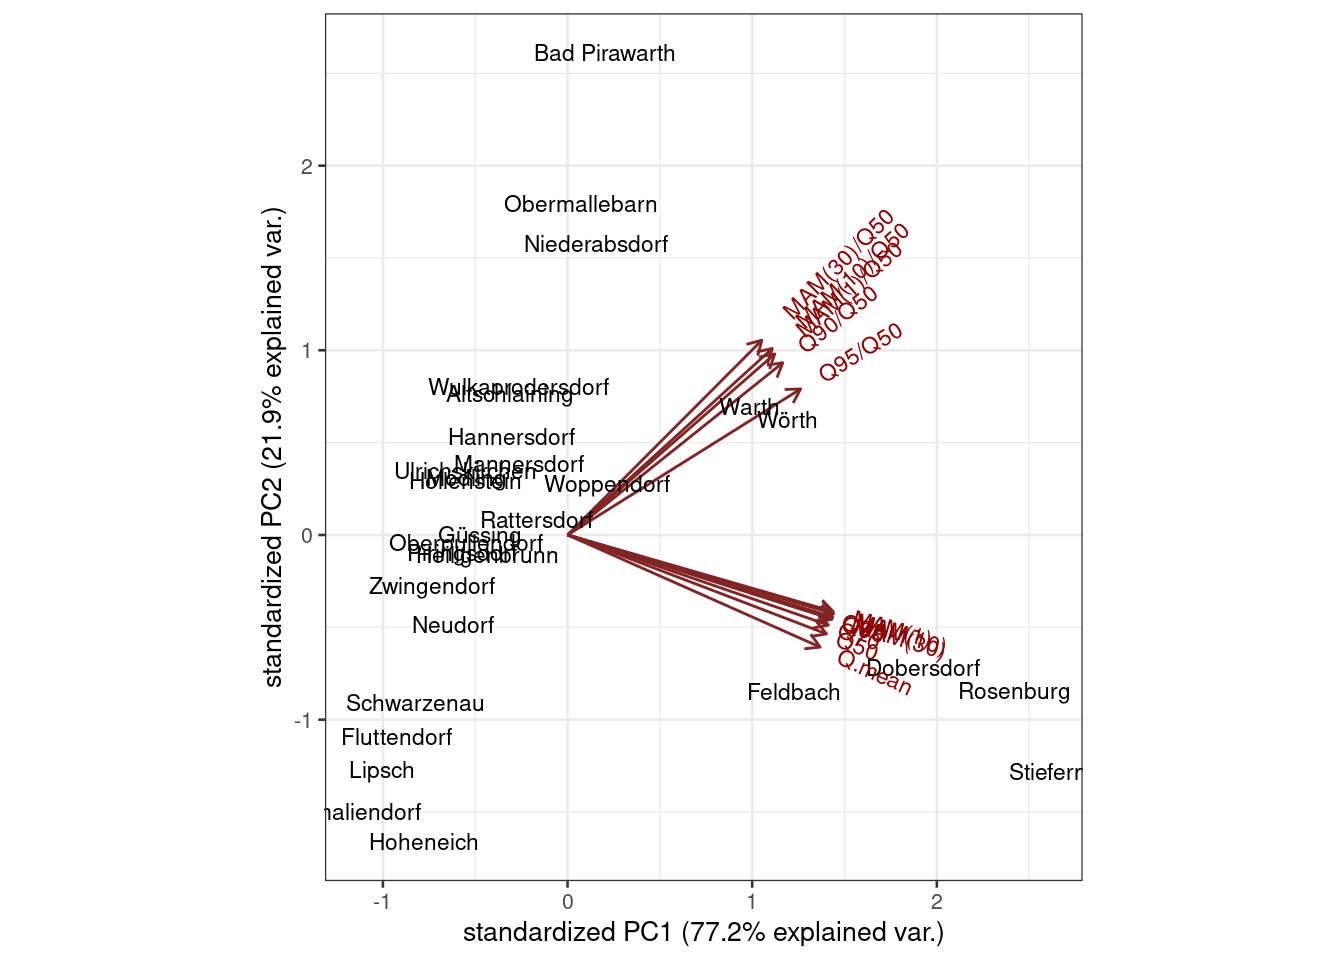
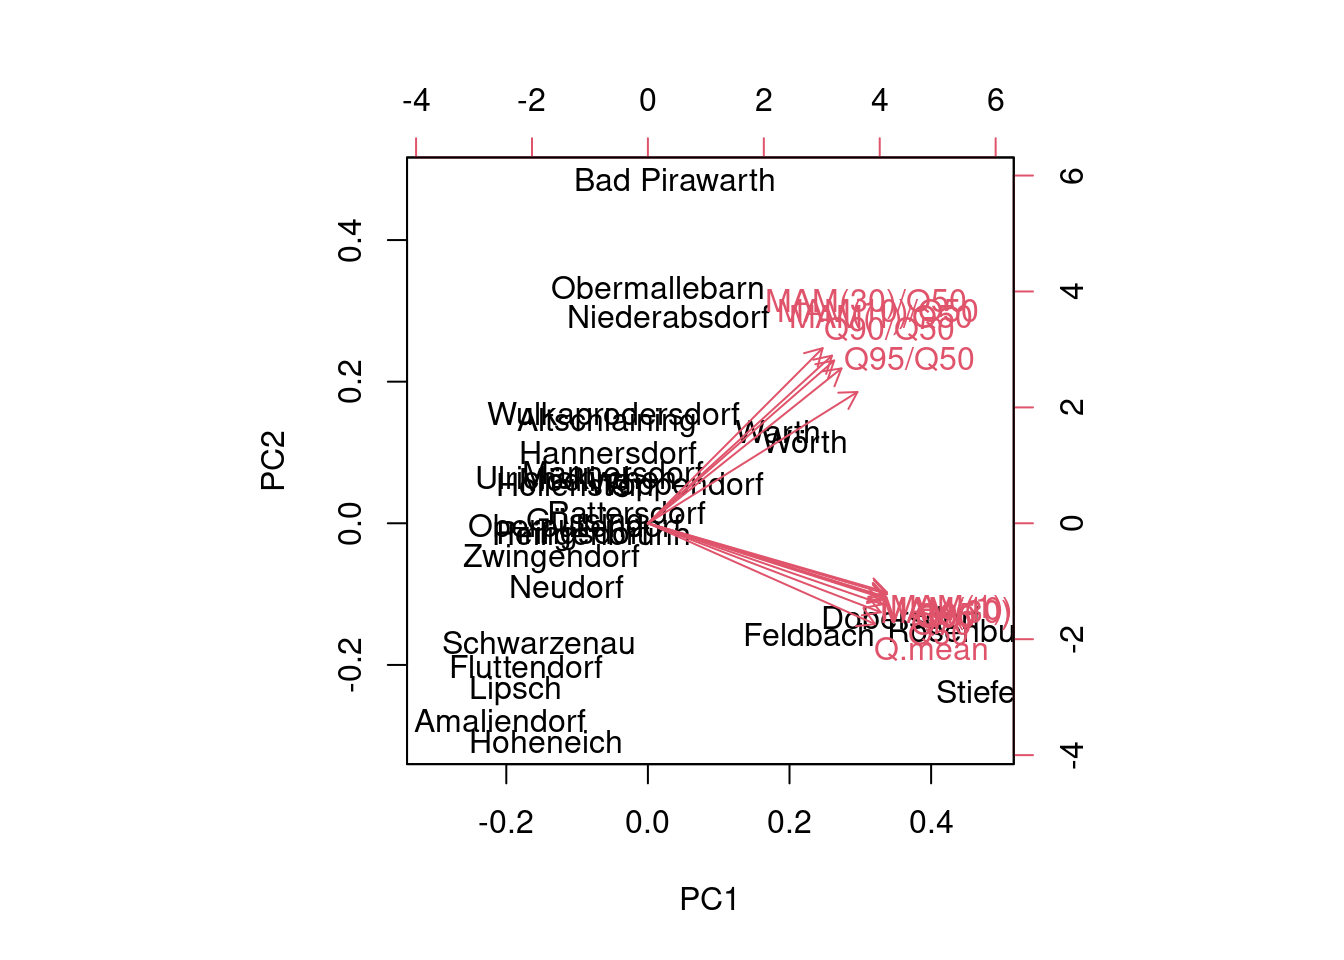
modifying WE 5.7

diff --git a/worked_examples/html/5-7_rank_and_correlation_coefficients.html b/worked_examples/html/5-7_rank_and_correlation_coefficients.html
@@ -144,7 +144,8 @@ df &lt;- indices %&gt;%
 
 pca &lt;- prcomp(df, center = TRUE, scale. = TRUE)
 
-ggbiplot::ggbiplot(pca, labels=rownames(df))</code></pre>
+# ggbiplot::ggbiplot(pca, labels=rownames(df))
+biplot(pca)</code></pre>
 <p><img src="5-7_rank_and_correlation_coefficients_files/figure-html/unnamed-chunk-4-1.png" width="672"  /></p>
 </div>
 
